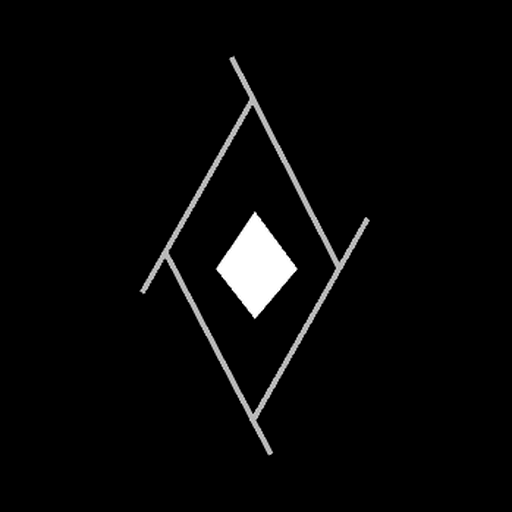
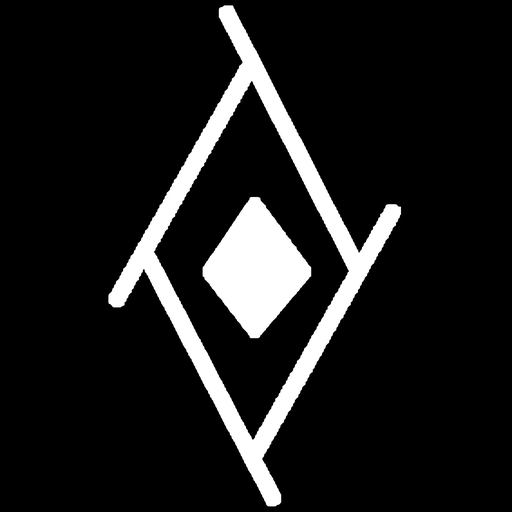
Auto-sync: cloud changes (2026-08-02 13:36)

Changed region(s): [[0.1875, 0.0, 0.7812, 1.0]]

diff --git a/macos/menubar/icons_util.py b/macos/menubar/icons_util.py
@@ -64,19 +64,29 @@ def write_template_from_mask(
 ) -> None:
     """Bake a solid black template from a luminance/alpha mask PNG."""
     try:
-        from PIL import Image
+        from PIL import Image, ImageFilter
     except ImportError:
         write_beacon_template(path, size=size, filled=alpha_scale >= 0.9)
         return
     img = Image.open(mask).convert("L")
-    img = img.resize((size, size), Image.Resampling.LANCZOS)
+    # Upscale → thicken hairlines → downscale so the diamond reads at 16–18pt.
+    big = img.resize((size * 4, size * 4), Image.Resampling.LANCZOS)
+    for _ in range(3):
+        big = big.filter(ImageFilter.MaxFilter(5))
+    px = big.load()
+    w, h = big.size
+    for y in range(h):
+        for x in range(w):
+            px[x, y] = 255 if px[x, y] > 36 else 0
+    big = big.filter(ImageFilter.MaxFilter(3))
+    small = big.resize((size, size), Image.Resampling.LANCZOS)
     out = Image.new("RGBA", (size, size), (0, 0, 0, 0))
-    sp = img.load()
+    sp = small.load()
     op = out.load()
     for y in range(size):
         for x in range(size):
             v = sp[x, y]
-            if v < 64:
+            if v < 48:
                 continue
             op[x, y] = (0, 0, 0, int(min(255, (v / 255.0) * 255 * alpha_scale)))
     path.parent.mkdir(parents=True, exist_ok=True)
